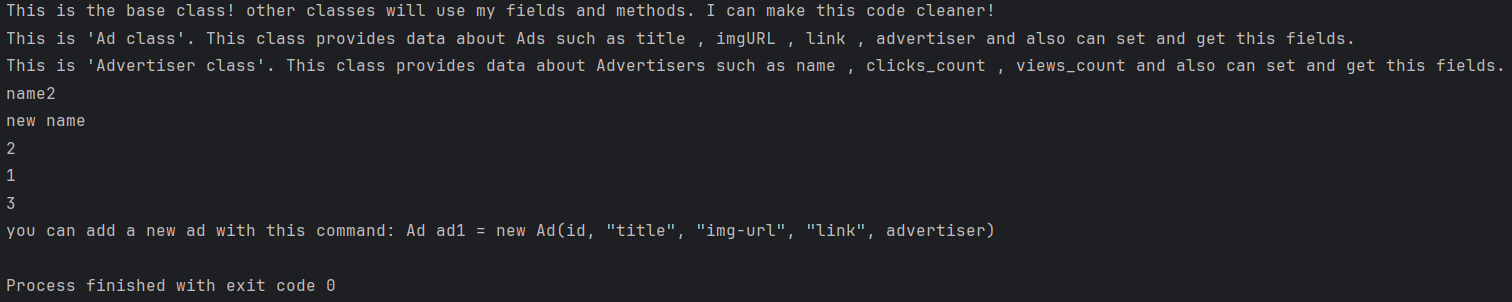
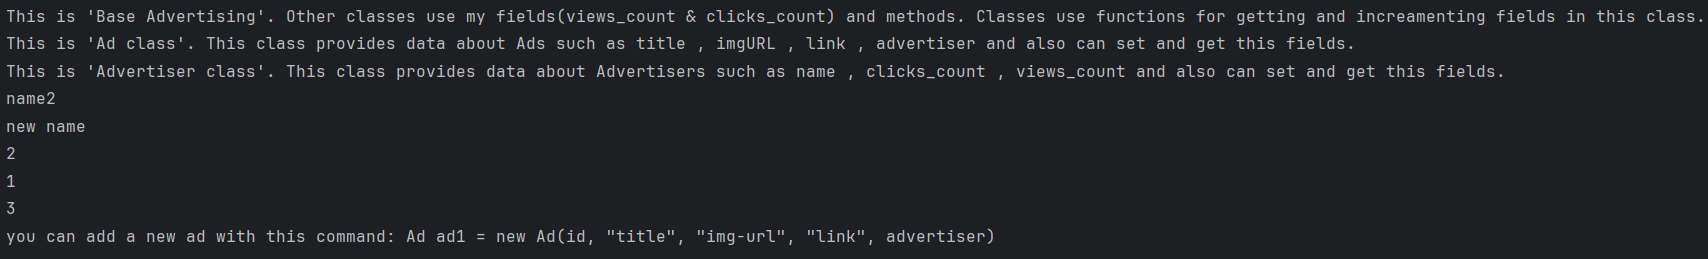
add changes due to comment 3,4 in python files

diff --git a/python - oop/pythonProject1/Advertiser.py b/python - oop/pythonProject1/Advertiser.py
@@ -2,17 +2,20 @@ from BaseAdvertising import BaseAdvertising
 
 
 class Advertiser(BaseAdvertising):
-    totalClicks = 0
+    advertisers = []
 
     def __init__(self, id: int, name: str):
         super().__init__()
         self.name = name
         self.id = id
+        Advertiser.advertisers.append(self)
 
     @staticmethod
     def getTotalClicks() -> int:
-        for instance in Advertiser.instances:
-            print(instance.name)
+        total_clicks = 0
+        for advertiser in Advertiser.advertisers:
+            total_clicks += advertiser.getClicks()
+        return total_clicks
 
     @staticmethod
     def help() -> str:
@@ -24,7 +27,6 @@ class Advertiser(BaseAdvertising):
 
     def incClicks(self):
         super().incClicks()
-        Advertiser.totalClicks += 1
 
     def getName(self) -> str:
         return self.name

diff --git a/python - oop/pythonProject1/BaseAdvertising.py b/python - oop/pythonProject1/BaseAdvertising.py
@@ -5,7 +5,8 @@ class BaseAdvertising:
 
     @staticmethod
     def describeMe() -> str:
-        print('This is the base class! other classes will use my fields and methods. I can make this code cleaner!')
+        print(
+            'This is \'Base Advertising\'. Other classes use my fields(views_count & clicks_count) and methods. Classes use functions for getting and increamenting fields in this class. This class make this code cleaner!')
 
     def getClicks(self) -> int:
         return self.clicks_count
